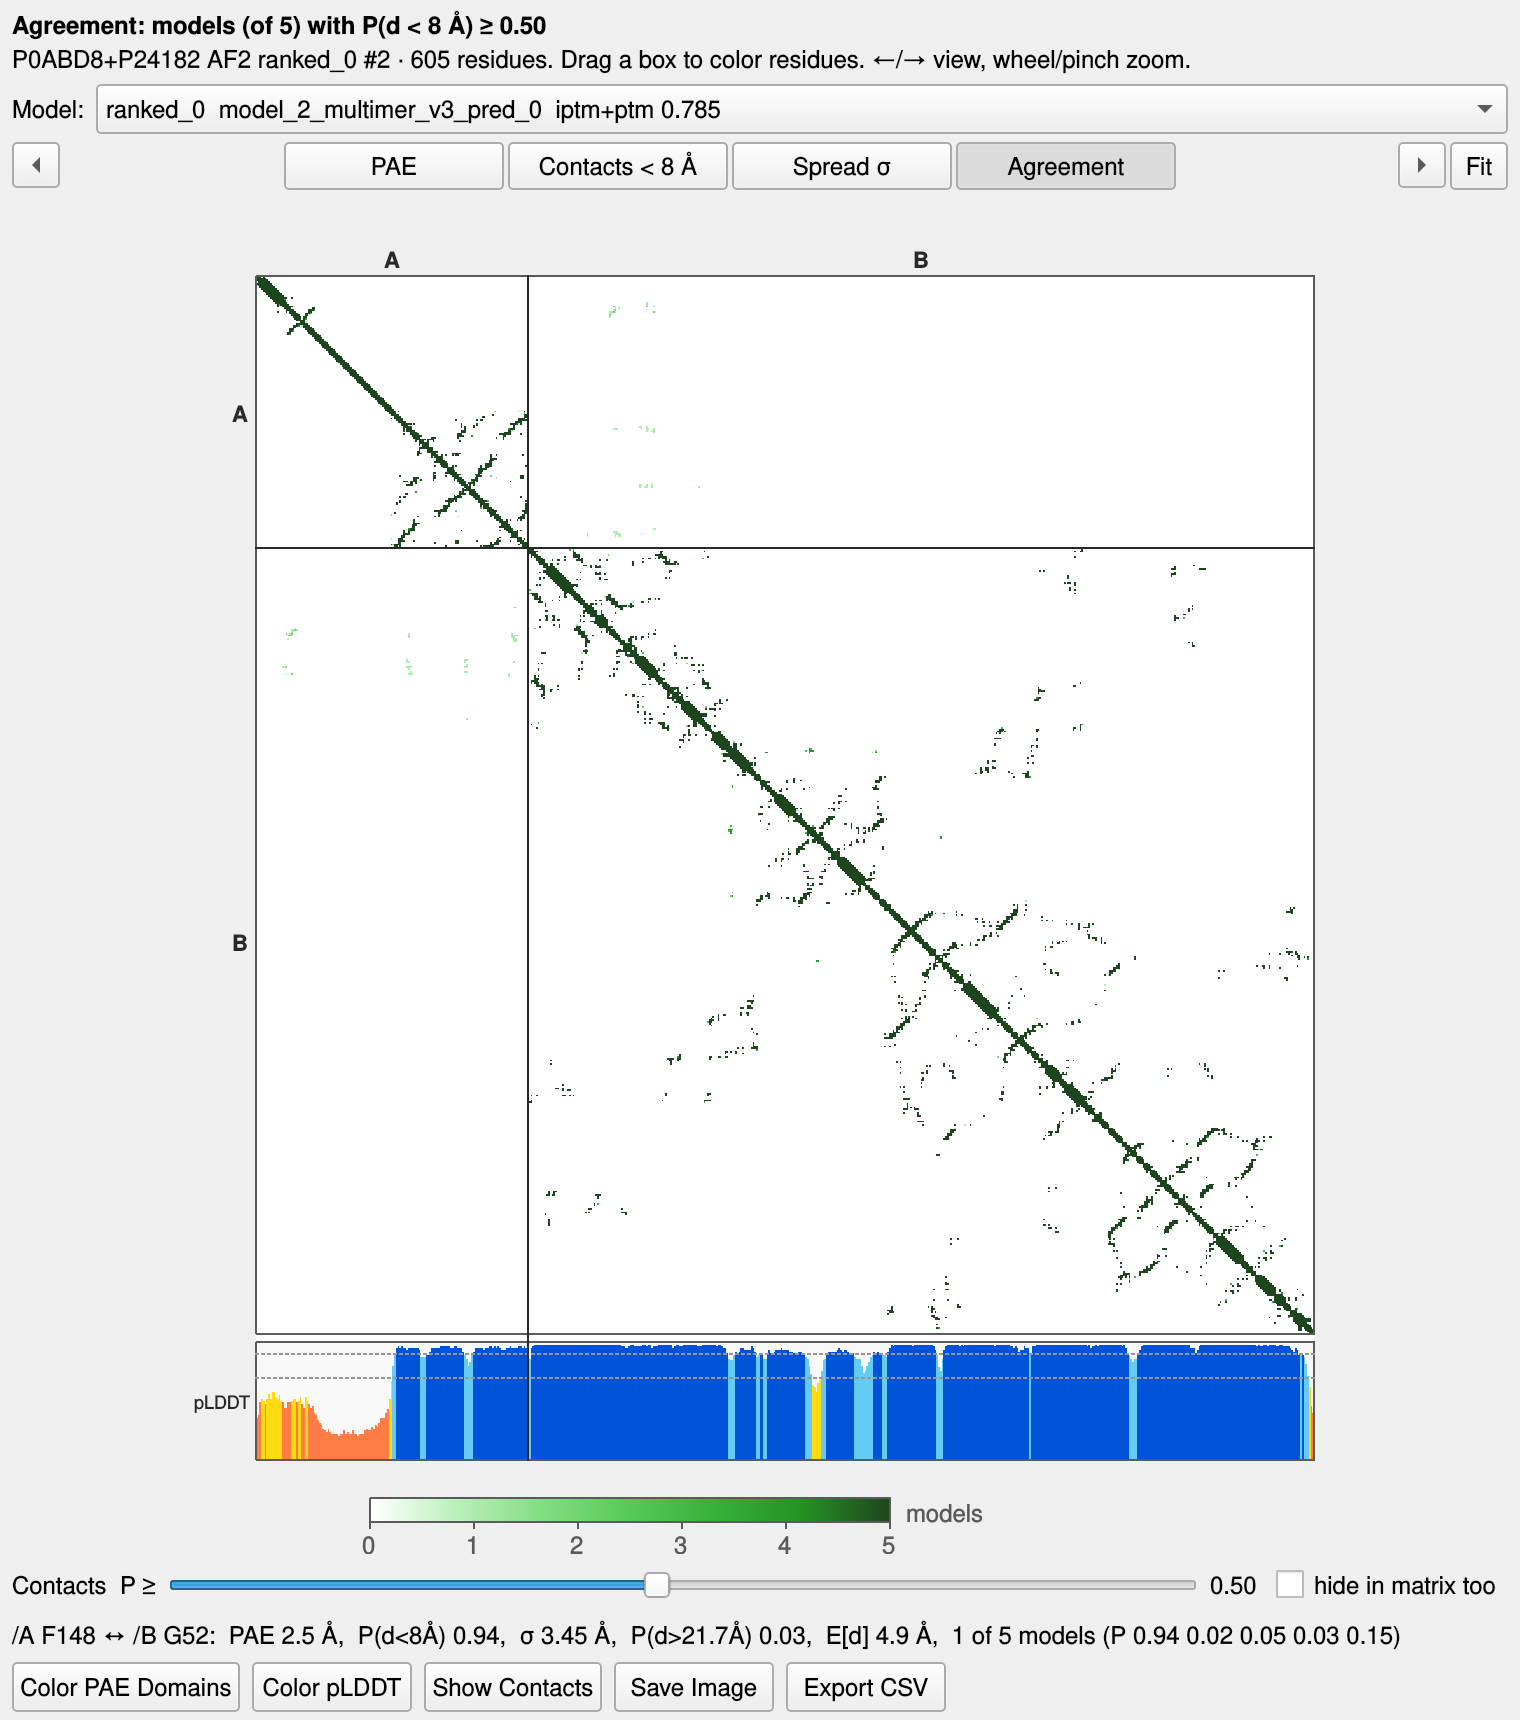
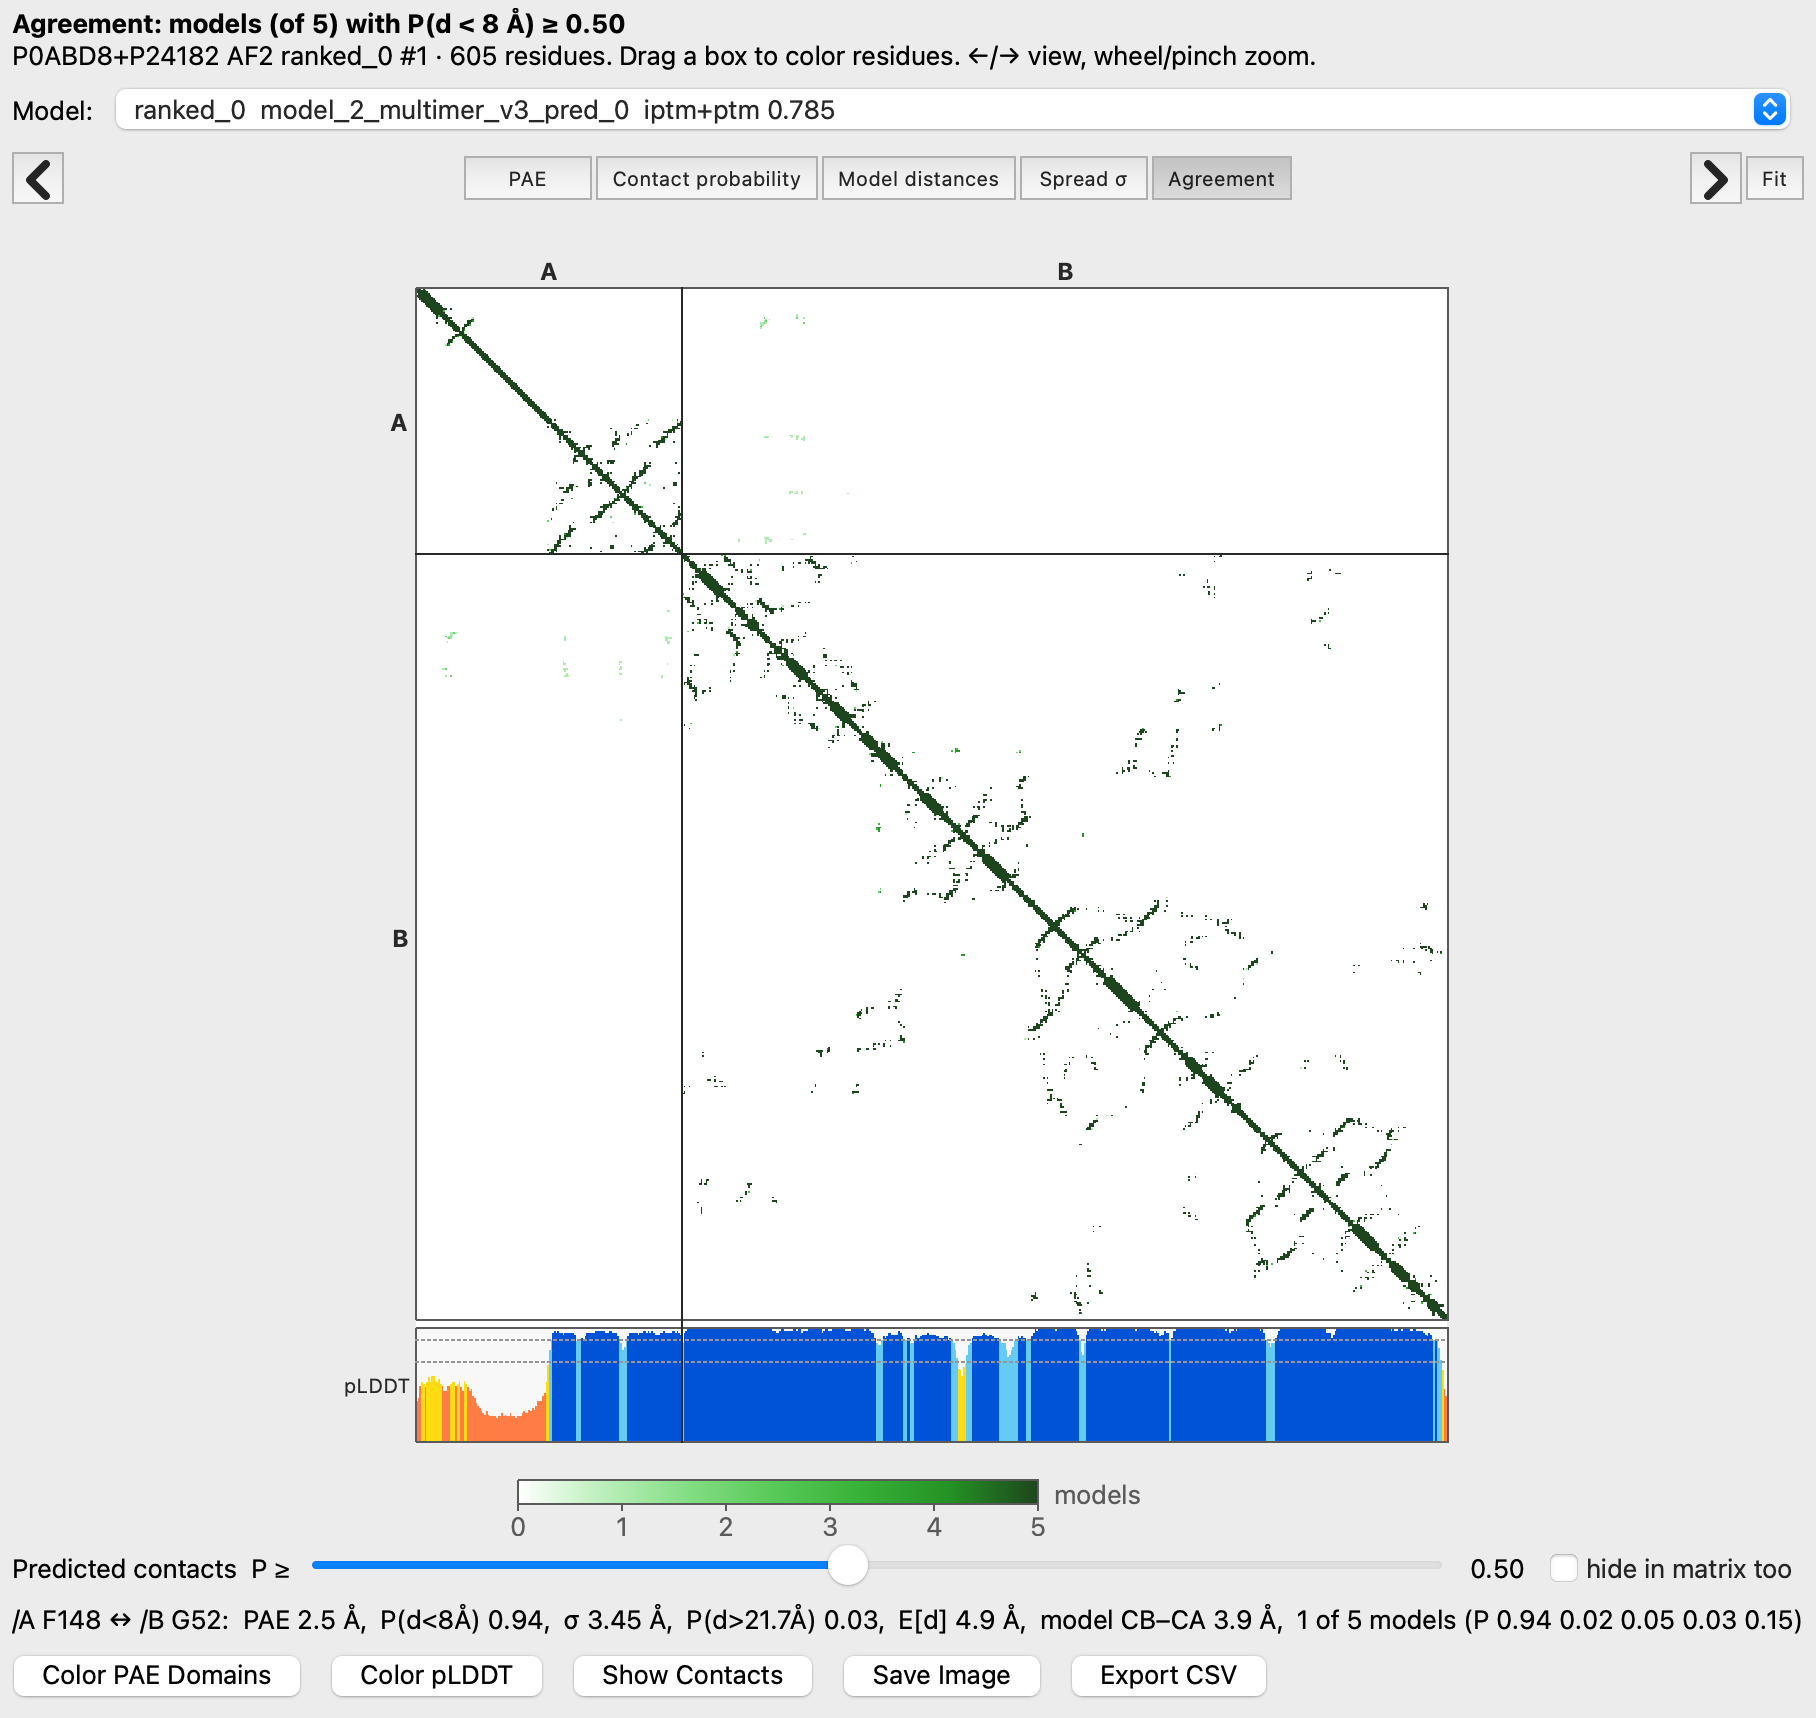
README images for AlphaLens 0.6: blue contacts, five views
- contacts.png: SucC-SucD contact-probability view with blue dots and the
  clicked contact ringed in gold (was red dots from 0.4).
- views.png: the five views (PAE, contact probability, model distances,
  spread, agreement) and the contacts with P >= 0.5 on the structure.
- agreement.png: AccB-AccC agreement view, same hovered pair as before.
- docs/render_readme_images.py renders all three in a ChimeraX window from
  the installed bundle; README captions updated.
- CHANGELOG 0.5.0: the repository is KosinskiLab/AlphaLens.

diff --git a/docs/render_readme_images.py b/docs/render_readme_images.py
@@ -1,0 +1,160 @@
+# Render the README images of AlphaLens in a real ChimeraX window, with the installed bundle.
+# Offscreen Qt is not enough: the plot is grabbed from its window.
+#
+#   OUT=<dir> DATA=<dir> [PARTS=contacts,views,agreement] ChimeraX --script render_readme_images.py
+#
+# DATA holds two public E. coli AlphaFold2 predictions whose result pickles kept the distogram,
+# P0A836+P0AGE9 (SucC-SucD) and P0ABD8+P24182 (AccB-AccC); in the Kosinski group they are under
+# <lab benchmark>/predictions/full_unfiltered_v3/
+# ecoli/af2/pos_pairs/predictions/ (copy them with scripts/fetch_pred.sh). views.png is always
+# rendered; PARTS can leave out contacts.png or agreement.png.
+# contacts.png  SucC-SucD, contact-probability view, P >= 0.5, /A D219 - /B P101 clicked
+# views.png     SucC-SucD, the five views and the contacts on the structure, 2 x 3 panels
+# agreement.png AccB-AccC, agreement view, P >= 0.5, /A F148 - /B G52 hovered
+import os
+import sys
+import time
+import traceback
+
+sys.dont_write_bytecode = True
+OUT, DATA = os.environ['OUT'], os.environ['DATA']
+PARTS = os.environ.get('PARTS', 'contacts,views,agreement').split(',')
+os.makedirs(OUT, exist_ok=True)
+log = open(os.path.join(OUT, 'render_log.txt'), 'w')
+from chimerax.core.commands import run      # noqa: E402
+from chimerax.atomic import AtomicStructure  # noqa: E402
+
+
+def note(msg):
+    log.write(msg + '\n')
+    log.flush()
+
+
+def flush(n=30):
+    for _ in range(n):
+        session.ui.processEvents()
+        time.sleep(0.05)
+
+
+def structure():
+    return [m for m in session.models.list(type=AtomicStructure)][0]
+
+
+def window(plot, w, h):
+    plot.tool_window.ui_area.window().resize(w, h)
+    flush()
+
+
+def rows(plot):
+    return {(r.chain_id, r.number): k for k, r in enumerate(plot.pae.row_residues_or_atoms())}
+
+
+try:
+    # ---- contacts.png
+    run(session, f'alphalens open {DATA}/P0A836+P0AGE9 mode contact wait true')
+    s = structure()
+    plot = s._alphalens_plot
+    plot.set_threshold(0.5)
+    if 'contacts' in PARTS:
+        window(plot, 760, 860)
+        idx = rows(plot)
+        plot._pick_contact(idx[('A', 219)], idx[('B', 101)])
+        flush()
+        note('contacts info: ' + plot._info.text())
+        plot.save_image(os.path.join(OUT, 'contacts.png'))
+
+    # ---- views.png
+    plot.clear_picked_contact()
+    run(session, f'alphalens #{s.id_string} mode agreement wait true')
+    plot.set_threshold(0.5)
+    window(plot, 720, 780)
+    plot.set_mode('model')          # Widest colour bar: let the window settle before grabbing
+    flush(60)
+    from Qt.QtGui import QImage, QPainter, QColor, QFont
+    from Qt.QtCore import Qt, QRectF
+    panels = []
+    for mode, title in (('pae', 'PAE'), ('contact', 'Contact probability (dots: P ≥ 0.5)'),
+                        ('model', 'Model distances'), ('std', 'Spread σ'),
+                        ('agreement', 'Agreement (models with P ≥ 0.5)')):
+        plot.set_mode(mode)
+        flush()
+        flush()
+        panels.append((title, plot._view.grab(), plot._cbar.grab()))
+        note(f'grabbed {mode}: view {plot._view.width()}x{plot._view.height()}')
+    sizes = {(v.width(), v.height()) for _, v, _ in panels}
+    assert len(sizes) == 1, f'view sizes differ: {sizes}'
+    bg = panels[0][1].toImage().pixelColor(3, 3)       # Widget background, for the composite
+    # Contacts on the structure, P >= 0.5, as drawn by Show Contacts
+    plot._contacts_button_clicked(True)
+    run(session, f'color #{s.id_string}/A #c9c9c9 target c; color #{s.id_string}/B #e9d6ad target c')
+    run(session, 'set bgColor white; lighting soft; graphics silhouettes true; view; '
+                 'turn y 90; view pad 0.12')
+    dpr = panels[0][1].devicePixelRatio()
+    box_w = 0.84 * panels[0][1].width() / dpr           # Logical size of the 3D box below
+    box_h = 0.9 * panels[0][1].height() / dpr
+    run(session, f'windowsize {int(box_w)} {int(box_h)}')
+    flush()
+    run(session, 'view pad 0.12')
+    img3d = os.path.join(OUT, '_structure.png')
+    run(session, f'save {img3d} width {int(box_w * dpr)} height {int(box_h * dpr)} '
+                 f'supersample 3 transparentBackground true')
+    from Qt.QtGui import QPixmap
+    panels.append(('Contacts on the structure (P ≥ 0.5)', QPixmap(img3d), None))
+
+    pw = max(p[1].width() / p[1].devicePixelRatio() for p in panels[:5])
+    vh_l = max(p[1].height() / p[1].devicePixelRatio() for p in panels[:5])
+    cb_h = max(p[2].height() / p[2].devicePixelRatio() for p in panels[:5])
+    title_h, gap = 30, 16
+    ph = title_h + vh_l + cb_h + gap
+    cols, rws = 2, 3
+    W, H = int(cols * pw + gap), int(rws * ph)
+    img = QImage(int(W * dpr), int(H * dpr), QImage.Format.Format_RGB32)
+    img.setDevicePixelRatio(dpr)
+    img.fill(bg)
+    p = QPainter(img)
+    p.setRenderHint(QPainter.RenderHint.SmoothPixmapTransform, True)
+    font = QFont(p.font())
+    font.setPointSizeF(13)
+    font.setBold(True)
+    p.setFont(font)
+    p.setPen(QColor(30, 30, 30))
+    for k, (title, view, cbar) in enumerate(panels):
+        x0, y0 = (k % cols) * (pw + gap), (k // cols) * ph
+        p.drawText(QRectF(x0, y0, pw, title_h), Qt.AlignmentFlag.AlignCenter, title)
+        if cbar is None:            # 3D image: same box as a matrix panel, no colour bar
+            bw, bh = view.width() / dpr, view.height() / dpr       # Same aspect as saved
+            box = QRectF(x0 + (pw - bw) / 2, y0 + title_h + (vh_l - bh) / 2, bw, bh)
+            p.drawPixmap(box, view, QRectF(view.rect()))
+            continue
+        vwl, vhl = view.width() / view.devicePixelRatio(), view.height() / view.devicePixelRatio()
+        p.drawPixmap(QRectF(x0 + (pw - vwl) / 2, y0 + title_h, vwl, vhl), view, QRectF(view.rect()))
+        cwl, chl = cbar.width() / cbar.devicePixelRatio(), cbar.height() / cbar.devicePixelRatio()
+        p.drawPixmap(QRectF(x0 + (pw - cwl) / 2, y0 + title_h + vh_l, cwl, chl), cbar, QRectF(cbar.rect()))
+    p.end()
+    img = img.scaledToWidth(img.width() // 2, Qt.TransformationMode.SmoothTransformation)
+    img.save(os.path.join(OUT, 'views.png'))
+    note(f'views.png {img.width()}x{img.height()}')
+    run(session, 'close')
+    if 'agreement' not in PARTS:
+        raise SystemExit
+
+    # ---- agreement.png
+    run(session, f'alphalens open {DATA}/P0ABD8+P24182 mode agreement wait true')
+    s = structure()
+    plot = s._alphalens_plot
+    plot.set_threshold(0.5)
+    window(plot, 760, 860)
+    plot.set_mode('agreement')
+    idx = rows(plot)
+    plot._report(idx[('B', 52)], idx[('A', 148)])
+    flush()
+    note('agreement info: ' + plot._info.text())
+    plot.save_image(os.path.join(OUT, 'agreement.png'))
+    note('DONE')
+except SystemExit:
+    note('DONE (parts: ' + ','.join(PARTS) + ')')
+except Exception:
+    note('FAIL\n' + traceback.format_exc())
+finally:
+    log.close()
+    run(session, 'exit')

diff --git a/README.md b/README.md
@@ -12,9 +12,8 @@ the structure and exports them to CSV.
   alt="AlphaLens plot in the contact-probability view, with dots on the inter-chain contacts"></p>
 
 *The contact-probability view for an AlphaFold2 prediction of E. coli succinyl-CoA synthetase,
-SucC–SucD (UniProt P0A836, P0AGE9). Dots mark the inter-chain pairs with P ≥ 0.5 (red in this
-image from version 0.4; blue from 0.5 on). The ringed one was clicked; its values are in the line
-under the slider.*
+SucC–SucD (UniProt P0A836, P0AGE9). Blue dots mark the inter-chain pairs with P ≥ 0.5, darker for
+higher P. The one ringed in gold was clicked; its values are in the line under the slider.*
 
 | View | Matrix | Colors (dark = confident) |
 |---|---|---|
@@ -25,11 +24,12 @@ under the slider.*
 | Agreement | number of AF3 seeds or AF2 models in which the pair has P ≥ the slider threshold | 0 to the number of seeds or models |
 
 <p align="center"><img src="docs/images/views.png" width="760"
-  alt="The PAE, contact, spread and agreement views of one prediction"></p>
+  alt="The PAE, contact-probability, model-distance, spread and agreement views of one prediction, and its contacts drawn on the structure"></p>
 
-*The four views of the same prediction. In the spread view, grey marks pairs whose distance is
-mostly beyond the last distogram bin. The agreement view counts the five AlphaFold2 models in which
-each pair has P ≥ 0.5.*
+*The five views of the same prediction, and its inter-chain contacts with P ≥ 0.5 drawn on the
+structure by Show Contacts. In the spread view, grey marks pairs whose distance is mostly beyond
+the last distogram bin. The agreement view counts the five AlphaFold2 models in which each pair has
+P ≥ 0.5.*
 
 ## Install
 
@@ -286,6 +286,9 @@ distograms, CSV export, seed matching and loading errors without installing the 
 
 The plot window itself needs ChimeraX: build and install with `devel install`, then check it on an
 AlphaFold2 and an AlphaFold3 prediction.
+
+The images in this README are rendered from the installed bundle by
+`docs/render_readme_images.py`; its header says which predictions it needs and how to run it.
 
 ## License
 

diff --git a/CHANGELOG.md b/CHANGELOG.md
@@ -23,7 +23,7 @@
 
 * **Renamed from DistoPAE to AlphaLens**, as the plot now does more than show the distogram and
   PAE: bundle ChimeraX-AlphaLens, command `alphalens`, tool Tools > Structure Prediction >
-  AlphaLens, repository KosinskiLab/chimerax-alphalens. `distopae` and `distopae open` still
+  AlphaLens, repository KosinskiLab/AlphaLens. `distopae` and `distopae open` still
   work. Remove the old bundle with `toolshed uninstall DistoPAE`.
 * Predicted contacts are blue instead of red (blue reads as confident; red is kept for clashes):
   the dots on the plot and the lines on the structure, darker and thicker for higher P, with the
